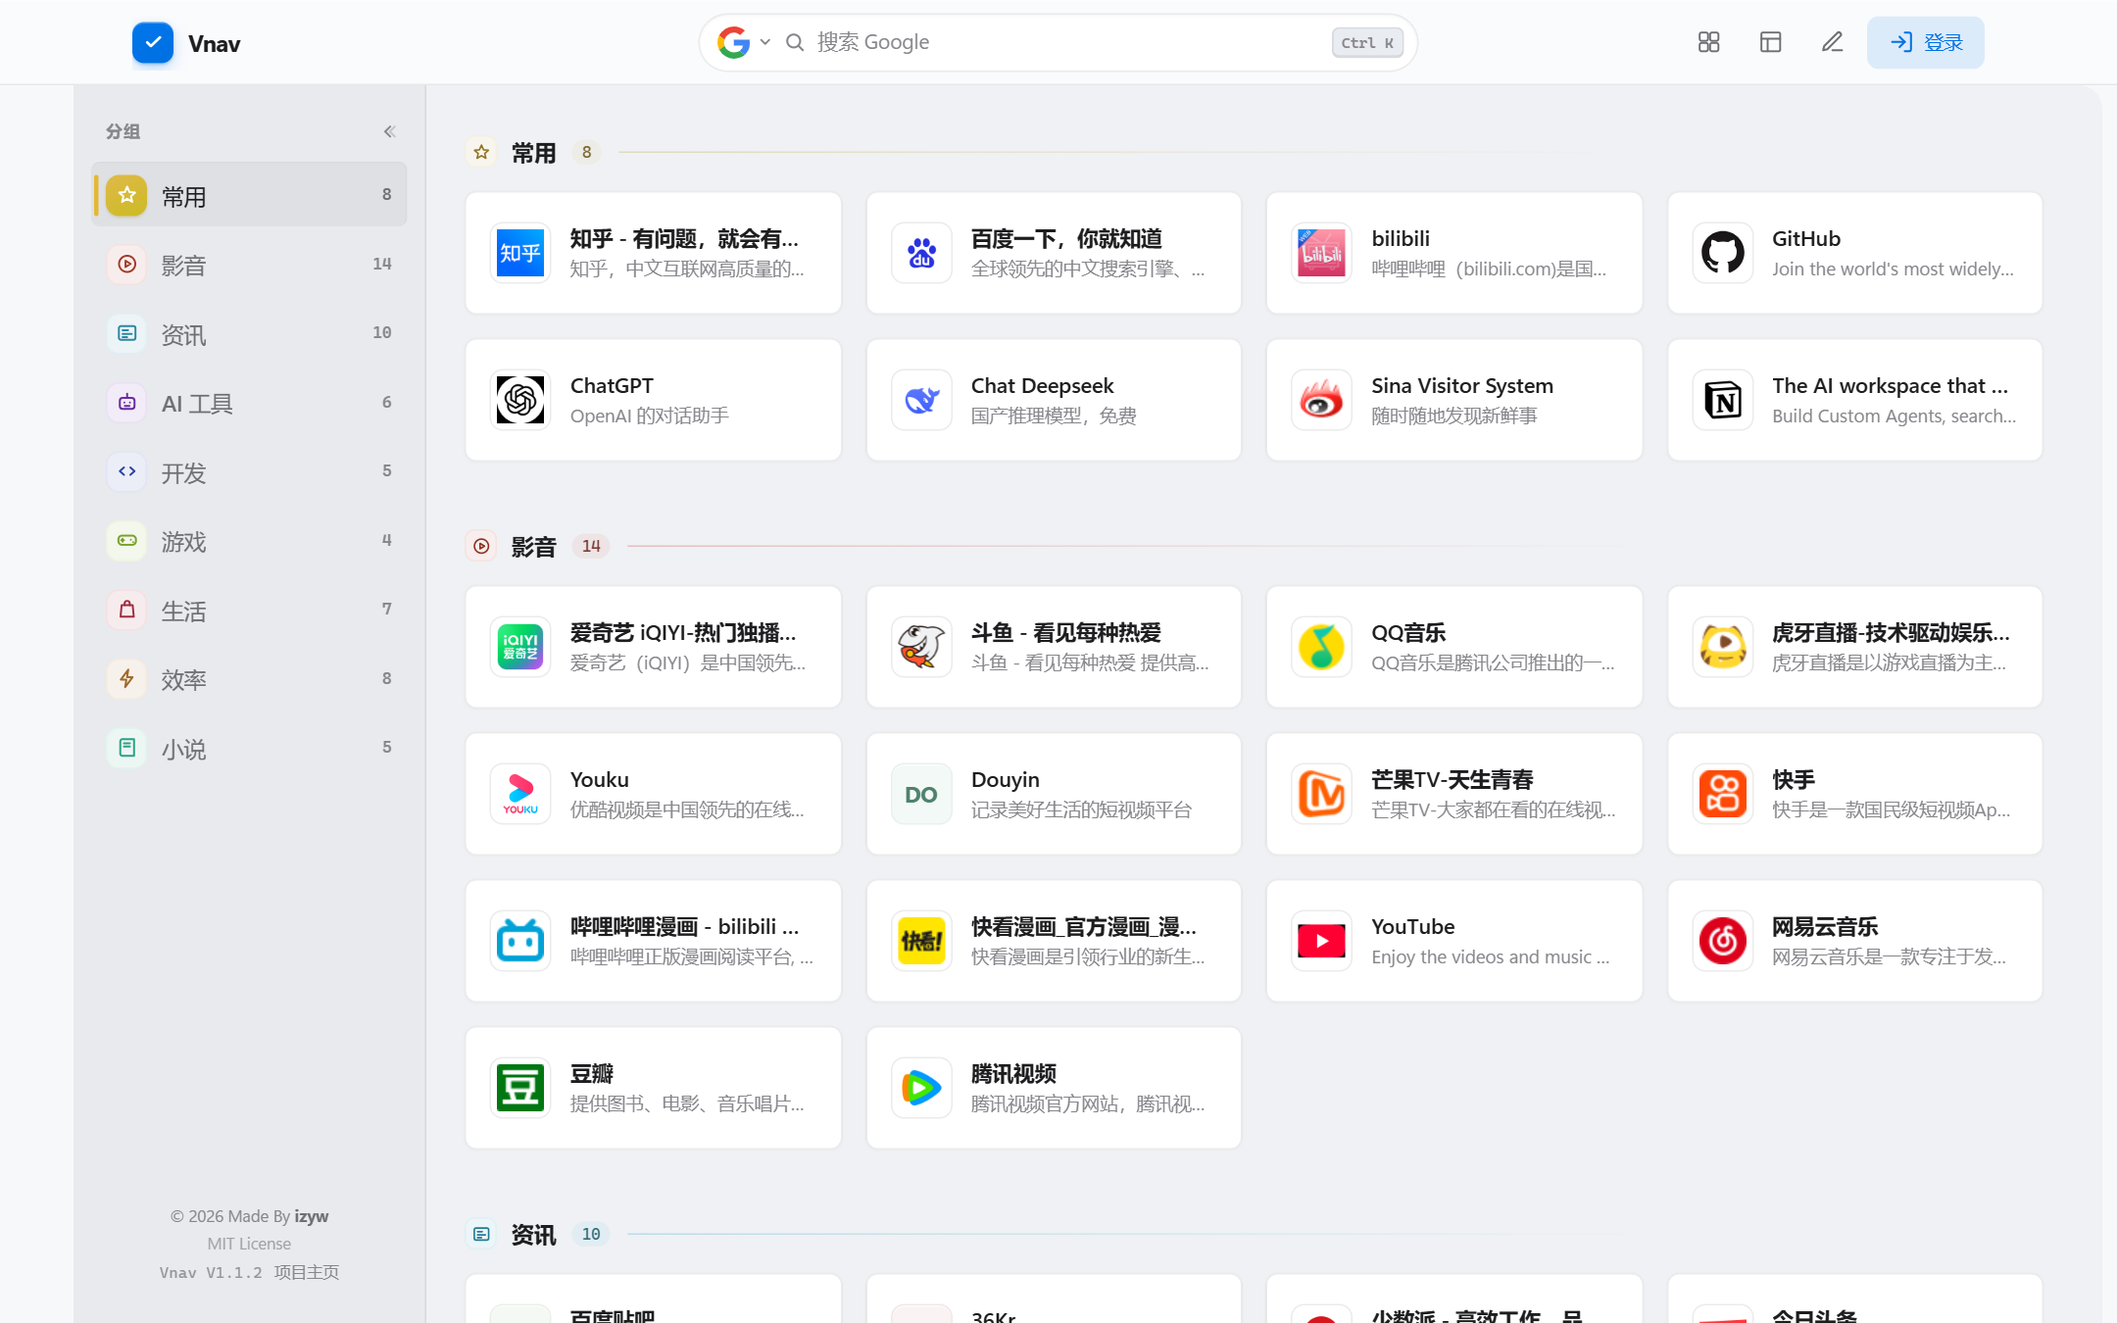
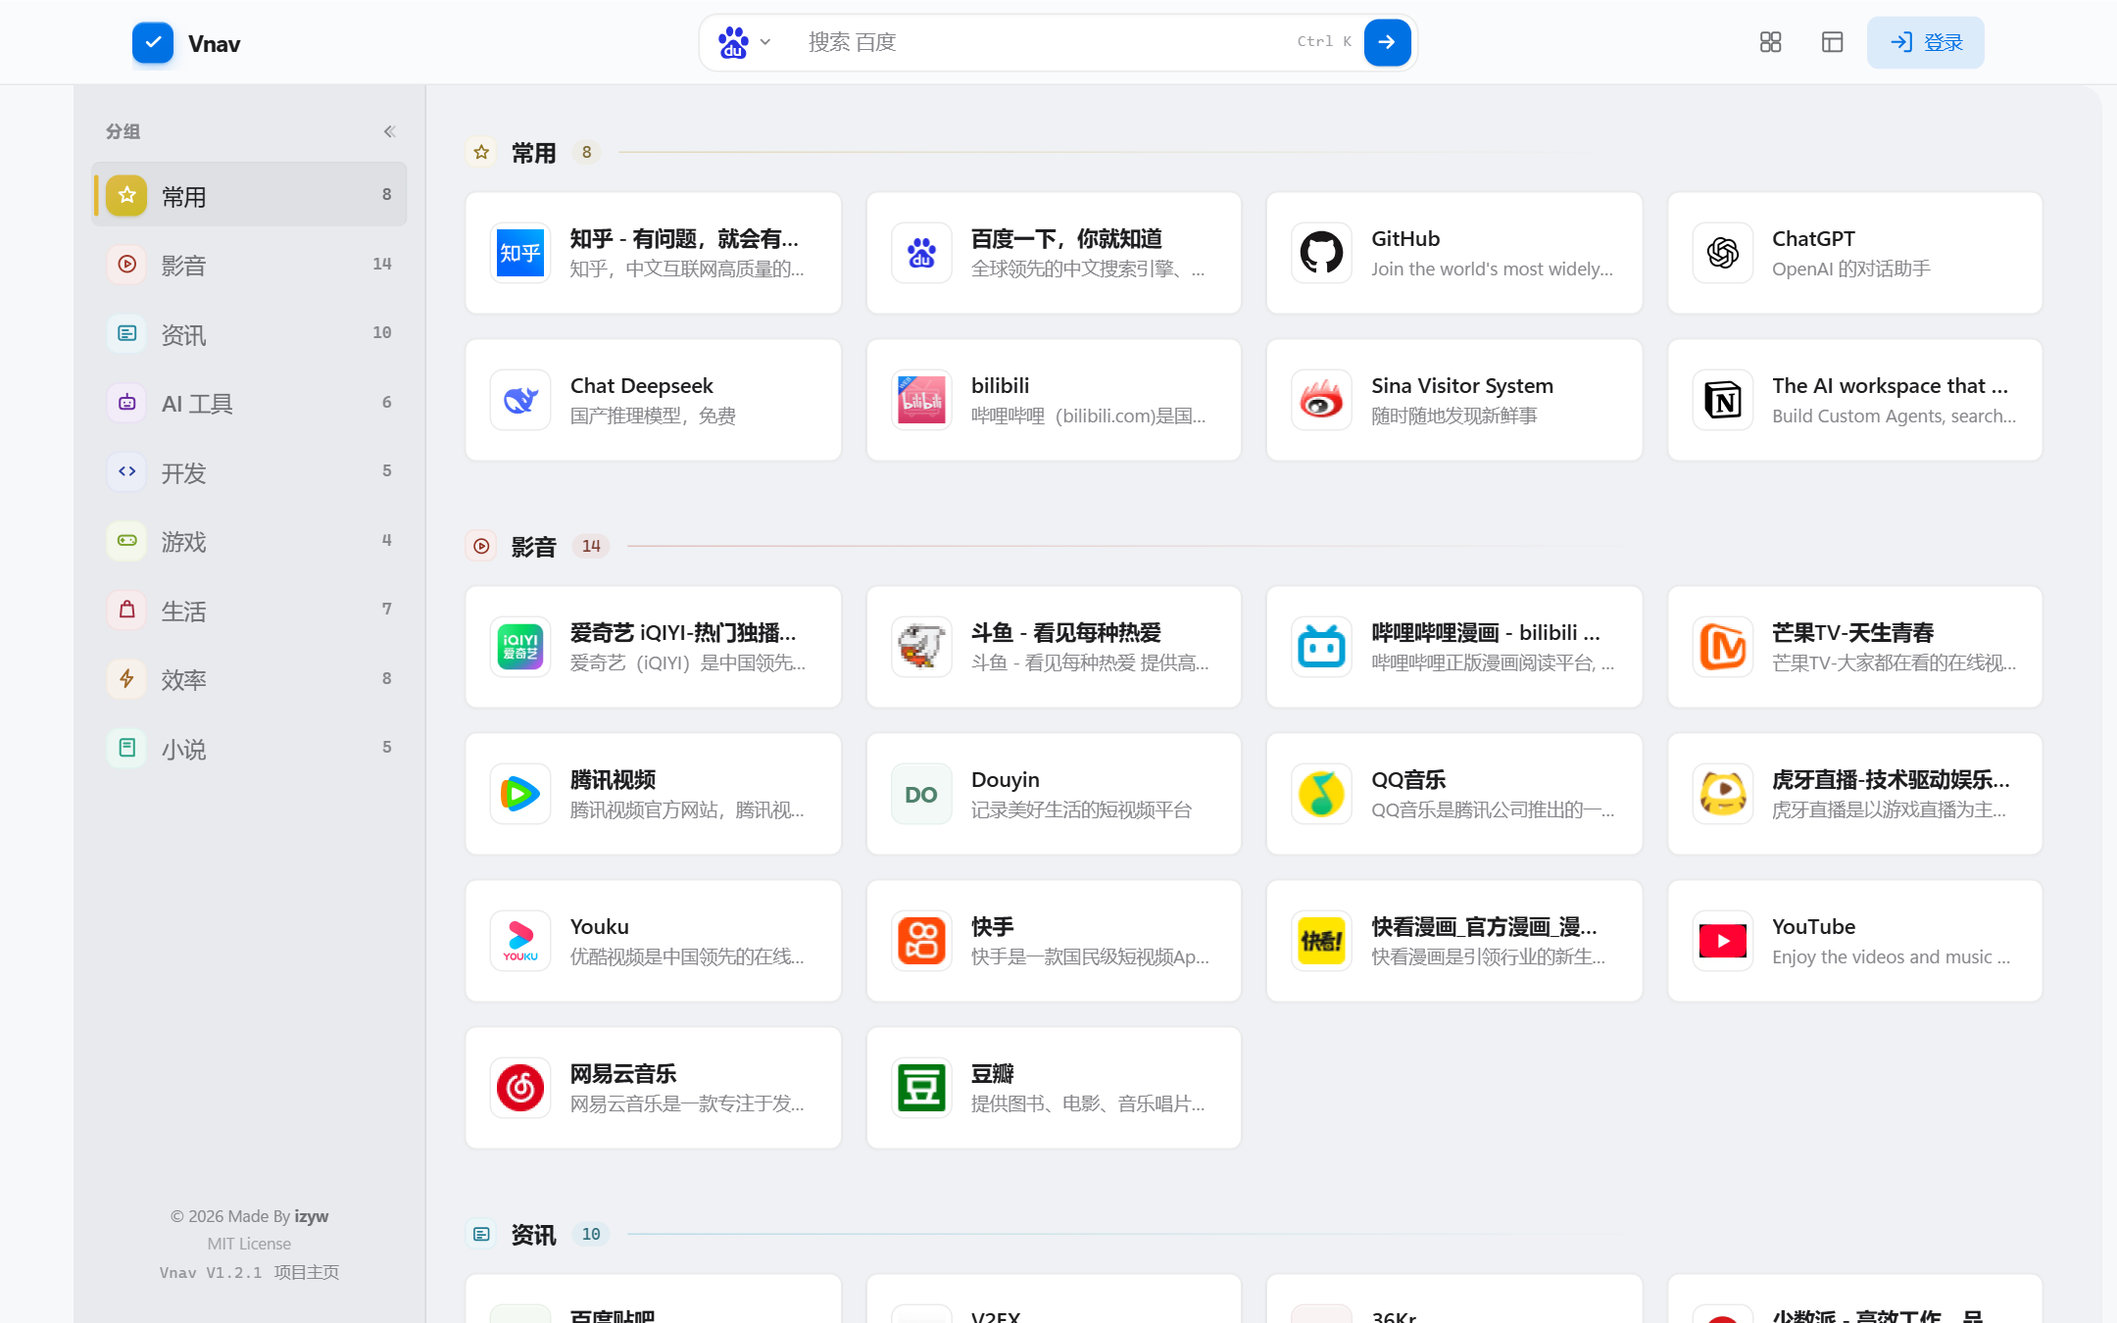
搜索框改成方形圆角，按钮做成框内实心圆角；Ctrl K 收成灰字，重拍四张界面图

diff --git a/assets/home.css b/assets/home.css
@@ -330,14 +330,14 @@ body.hp .brand-mark svg { width: 16px; height: 16px; }
 /* ==========================================================================
    5. 搜索框
    --------------------------------------------------------------------------
-   胶囊形（圆角 999）。整站其他元素都是 10~15px 的方圆角，
-   只有搜索框是纯胶囊 —— 这是有意的：它是全页唯一「随时要打字」的地方，
-   形状上就该和卡片区分开，让人一眼找到入口。
+   方圆形（圆角 13px），不再是纯胶囊：胶囊是全站唯一的异形，和卡片、按钮
+   的方圆角对不上，看起来像从别处借来的一块。整套 UI 都用 10~14px 的方圆角，
+   搜索框跟上来反而更整齐；右侧再放一枚同圆角比例的实心按钮收边。
    ========================================================================== */
 body.hp .search-wrap {
   width: clamp(260px, 34vw, 460px);
   min-height: 44px;
-  border-radius: 999px;
+  border-radius: 13px;
   border: 1px solid var(--hp-card-line);
   background: var(--hp-card-bg);
   backdrop-filter: var(--hp-card-blur);
@@ -352,7 +352,7 @@ body.hp .search-wrap:focus-within {
 body.hp .eng-btn {
   min-height: 44px;
   padding: 0 6px 0 13px;
-  border-radius: 999px 0 0 999px;
+  border-radius: 13px 0 0 13px;
 }
 body.hp .eng-btn::after {
   height: 16px;
@@ -361,95 +361,106 @@ body.hp .eng-btn::after {
 }
 body.hp .search input {
   min-height: 42px;
-  /* 左边 16px：放大镜去掉了，原来的 32px 是给它让位的，留着会空一块 */
-  padding: 0 16px 0 16px;
-  border-radius: 0 999px 999px 0;
+  padding: 0 16px;
+  border-radius: 0 13px 13px 0;
   font-size: 15.5px;
 }
 
-/* 提交按钮 = Ctrl K 提示，两者合成一个元素。
-   常态是一枚键帽（它同时也是按钮，点一下就能搜）；悬停、或输入框聚焦时
-   换成主题色箭头。宽高不变，所以切换状态时搜索框不会抖。
-   图标用箭头而不是放大镜：左边那颗放大镜是装饰，两个并排分不清谁可点。 */
-/* 右侧只留「清除 X + 提交按钮」的宽度：以前留 100px，X 和按钮之间
-   空出一大块，看着像忘了放东西。56px 让 X 正好贴到按钮左边。 */
-body.hp .search-wrap form.search input { padding-right: 56px; }
+/* 右侧给「Ctrl K 灰字 + 实心按钮」腾位置；一旦聚焦或已经有字，
+   灰字淡出，文字区立刻收回 32px —— 空框时提示看得见，打字时不碍事。
+   ⚠ 收起态的写法必须比常态「更具体」：常态是 .search-wrap + form + .search
+   三个类两级元素（0,3,3），如果只写 body.hp .search:focus-within input（0,3,2），
+   元素层级少一层，依然输给常态规则 —— 聚焦了半天内距不动，就是这个原因。 */
+body.hp .search-wrap form.search input { padding-right: 84px; }
+body.hp .search-wrap form.search:focus-within input,
+body.hp .search-wrap form.search:has(input:not(:placeholder-shown)) input { padding-right: 52px; }
 
-body.hp .search-go {
+/* 快捷键提示：一行灰字，不做键帽。以前它是个带描边的小方块，挤在按钮里
+   又小又糊；单独一行字反而更清楚，也不用为了它把按钮撑宽。 */
+body.hp .search-key {
   position: absolute;
-  right: 5px;
+  right: 44px;
   top: 50%;
   transform: translateY(-50%);
-  width: 52px;
-  height: 34px;
+  font-family: ui-monospace, SFMono-Regular, Menlo, Consolas, monospace;
+  font-size: 10.5px;
+  font-weight: 500;
+  letter-spacing: .04em;
+  color: var(--text-3);
+  opacity: .8;
+  pointer-events: none;
+  transition: opacity .16s;
+}
+body.hp .search:focus-within .search-key,
+body.hp .search:has(input:not(:placeholder-shown)) .search-key { opacity: 0; }
+
+/* 提交按钮：一枚实心方圆角，箭头居中。尺寸和圆角跟外面的搜索框同一套
+   （13px 外框 + 10px 按钮），看起来是框里嵌了一颗按钮，而不是框上贴了张标签。 */
+body.hp .search-go {
+  position: absolute;
+  /* 4px 四边等距：框高 40（38 + 上下边框）、按钮 32，上下各 4，右侧也留 4。
+     四边一样宽，看起来才是同一颗按钮嵌在框里，而不是贴着某一边。 */
+  right: 4px;
+  top: 50%;
+  transform: translateY(-50%);
+  width: 32px;
+  height: 32px;
   display: inline-flex;
   align-items: center;
   justify-content: center;
   padding: 0;
-  border: 1px solid var(--line-hi);
-  border-radius: 999px;
-  background: var(--surface-hi);
-  color: var(--text-3);
-  font-family: ui-monospace, SFMono-Regular, Menlo, Consolas, monospace;
-  font-size: 10.5px;
-  font-weight: 500;
-  letter-spacing: .02em;
-  cursor: pointer;
-  transition: background .16s, color .16s, border-color .16s;
-}
-body.hp .search-go .go-kbd { display: block; }
-body.hp .search-go .go-ico { display: none; }
-
-body.hp .search-go:hover,
-body.hp .search-wrap:focus-within .search-go {
+  border: 0;
+  border-radius: 10px;
   background: var(--acc);
-  border-color: var(--acc);
-  color: #fff;
+  color: var(--acc-ink);
+  cursor: pointer;
+  box-shadow: 0 1px 2px rgb(0 0 0 / .14);
+  transition: background .16s, transform .12s, box-shadow .16s;
 }
-body.hp .search-go:hover .go-kbd,
-body.hp .search-wrap:focus-within .search-go .go-kbd { display: none; }
-body.hp .search-go:hover .go-ico,
-body.hp .search-wrap:focus-within .search-go .go-ico { display: block; }
+body.hp .search-go .go-ico { display: block; }
+body.hp .search-go:hover {
+  background: color-mix(in srgb, var(--acc) 86%, #000);
+  box-shadow: 0 2px 6px rgb(0 0 0 / .18);
+}
+body.hp .search-go:active { transform: translateY(-50%) scale(.94); }
+body.hp .search-go:focus-visible { outline: 2px solid var(--acc); outline-offset: 3px; }
 
-body.hp .search-go:active { transform: translateY(-50%) scale(.95); }
-body.hp .search-go:focus-visible { outline: 2px solid var(--acc); outline-offset: 2px; }
-
-/* 工作台皮肤：方角、矮一档，日常是描边键帽，悬停变实心黑 */
-html[data-theme^='frame'] body.hp .search-wrap form.search input { padding-right: 50px; }
-html[data-theme^='frame'] body.hp .search-go {
-  width: 44px;
-  height: 26px;
-  border-radius: 7px;
-  border-color: var(--fr-line);
-  background: var(--fr-side);
-  color: var(--fr-ink-3);
+/* 工作台皮肤：方角更硬一档，按钮用近黑实心而不是主题色 */
+html[data-theme^='frame'] body.hp .search-wrap { border-radius: 9px; }
+html[data-theme^='frame'] body.hp .eng-btn { border-radius: 9px 0 0 9px; }
+html[data-theme^='frame'] body.hp .search input { border-radius: 0 9px 9px 0; }
+html[data-theme^='frame'] body.hp .search-wrap form.search input { padding-right: 72px; }
+html[data-theme^='frame'] body.hp .search-wrap form.search:focus-within input,
+html[data-theme^='frame'] body.hp .search-wrap form.search:has(input:not(:placeholder-shown)) input { padding-right: 44px; }
+html[data-theme^='frame'] body.hp .search-key {
+  right: 41px;
   font-size: 10px;
+  color: var(--fr-ink-3);
 }
-html[data-theme^='frame'] body.hp .search-go:hover,
-html[data-theme^='frame'] body.hp .search-wrap:focus-within .search-go {
+html[data-theme^='frame'] body.hp .search-go {
+  right: 4px;
+  width: 28px;
+  height: 28px;
+  border-radius: 6px;
   background: var(--fr-ink);
-  border-color: var(--fr-ink);
   color: var(--fr-app);
+  box-shadow: none;
+}
+html[data-theme^='frame'] body.hp .search-go:hover {
+  background: color-mix(in srgb, var(--fr-ink) 82%, var(--fr-app));
+  box-shadow: none;
 }
 
-/* 触屏 / 窄屏：没有物理键盘，Ctrl K 这两个字只占地方 —— 直接给主题色箭头 */
+/* 触屏 / 窄屏：没有物理键盘，Ctrl K 只占地方 —— 收起灰字，按钮占满右侧 */
 @media (max-width: 720px), (hover: none) {
-  body.hp .search-wrap form.search input { padding-right: 46px; }
-  body.hp .search-go {
-    width: 36px;
-    background: var(--acc);
-    border-color: var(--acc);
-    color: #fff;
-  }
-  body.hp .search-go .go-kbd { display: none; }
-  body.hp .search-go .go-ico { display: block; }
-  html[data-theme^='frame'] body.hp .search-go {
-    width: 30px;
-    height: 24px;
-    background: var(--fr-ink);
-    border-color: var(--fr-ink);
-    color: var(--fr-app);
-  }
+  body.hp .search-wrap form.search input,
+  body.hp .search-wrap form.search:focus-within input,
+  body.hp .search-wrap form.search:has(input:not(:placeholder-shown)) input { padding-right: 46px; }
+  body.hp .search-key { display: none; }
+  body.hp .search-go { width: 32px; height: 32px; border-radius: 9px; }
+  html[data-theme^='frame'] body.hp .search-wrap form.search input,
+  html[data-theme^='frame'] body.hp .search-wrap form.search:focus-within input { padding-right: 40px; }
+  html[data-theme^='frame'] body.hp .search-go { width: 28px; height: 28px; border-radius: 6px; }
 }
 
 /* 搜索建议下拉。贴在整条搜索框的下沿（左对齐引擎按钮、右对齐提交按钮），

diff --git a/assets/skin-frame.css b/assets/skin-frame.css
@@ -576,7 +576,7 @@ html[data-theme^='frame'][data-layout='grid'] body.hp .link-icon {
 html[data-theme^='frame'] body.hp .search-wrap {
   width: clamp(300px, 32vw, 460px);
   min-height: 36px;
-  border-radius: 10px;
+  border-radius: 9px;
   border: 1px solid var(--fr-line);
   background: var(--fr-app);
   box-shadow: none;
@@ -592,8 +592,8 @@ html[data-theme^='frame'] body.hp .search input {
   /* 左侧只留 12px：放大镜在工作台里是隐藏的（见下一条），
      左边已经有引擎 logo 表达「这里能搜」，再放一个放大镜是重复的。
      上一版把放大镜留着、内距又只给 8px，于是它直接压在提示文字上。 */
-  padding: 0 100px 0 12px;
-  border-radius: 0 10px 10px 0;
+  padding: 0 72px 0 12px;
+  border-radius: 0 9px 9px 0;
   font-family: var(--fr-font);
   font-size: 14px;
   color: var(--fr-ink);
@@ -606,19 +606,11 @@ html[data-theme^='frame'] body.hp .search-icon { display: none; }
 html[data-theme^='frame'] body.hp .eng-btn {
   min-height: 34px;
   padding: 0 5px 0 11px;
-  border-radius: 10px 0 0 10px;
+  border-radius: 9px 0 0 9px;
   color: var(--fr-ink-2);
 }
 html[data-theme^='frame'] body.hp .eng-btn:hover { color: var(--fr-ink); }
 html[data-theme^='frame'] body.hp .eng-logo { width: 20px; height: 20px; }
-html[data-theme^='frame'] body.hp .search-kbd {
-  border-radius: 4px;
-  border: 1px solid var(--fr-line);
-  background: var(--fr-side);
-  color: var(--fr-ink-3);
-  font-size: 11px;
-  padding: 2px 6px;
-}
 
 /* ==========================================================================
    8. 工具按钮与下拉

diff --git a/assets/skin-atlas.css b/assets/skin-atlas.css
@@ -421,7 +421,7 @@ body.hp .search-wrap {
   width: clamp(320px, 34vw, 520px);
   min-height: 38px;
   padding: 0;
-  border-radius: var(--at-r-pill);
+  border-radius: 13px;
   border: 1px solid var(--at-rule);
   background: color-mix(in srgb, var(--at-card) 94%, transparent);
   box-shadow: inset 0 1px 2px rgba(0, 0, 0, .035);
@@ -443,7 +443,7 @@ body.hp .search-wrap:focus-within {
 body.hp .eng-btn {
   min-height: 38px;
   padding: 0 6px 0 12px;
-  border-radius: var(--at-r-pill) 0 0 var(--at-r-pill);
+  border-radius: 13px 0 0 13px;
   gap: 5px;
   color: var(--at-ink-2);
 }
@@ -457,8 +457,8 @@ body.hp .eng-menu.is-open .eng-btn {
 body.hp .search input {
   min-height: 36px;
   /* 右侧留出键帽的位置 */
-  padding: 0 62px 0 24px;
-  border-radius: 0 var(--at-r-pill) var(--at-r-pill) 0;
+  padding: 0 84px 0 18px;
+  border-radius: 0 13px 13px 0;
   font-family: var(--at-font);
   font-size: 14px;
   font-weight: 400;

diff --git a/index.php b/index.php
@@ -228,7 +228,7 @@ hp_log_visit(false, '/');
           （设计令牌 + 按钮 + 表单），不能在上面重写主页样式，否则会连带
           改坏后台。所以主页的推倒重来单独落在 home.css，全部规则挂在
           body.hp 之下 —— 作用域只在主页，后台零影响。 */ ?>
-<link rel="stylesheet" href="assets/home.css?v=54">
+<link rel="stylesheet" href="assets/home.css?v=56">
 <?php /* 皮肤 CSS 必须排在 home.css 之后：靠「特异性 +1 属性选择器」与
          「后加载」双重压过 home.css 的结构规则，顺序反了只能改色改不动结构。
 
@@ -237,14 +237,14 @@ hp_log_visit(false, '/');
          两套全下等于每次白费一套（gzip 后 13~30KB）。
          切到另一系时，ui.js 会动态补载对应 CSS（见下方 data-skin-css）。 */ ?>
 <?php $__skinCss = str_starts_with($theme, 'frame') ? 'frame' : 'atlas'; ?>
-<link rel="stylesheet" href="assets/skin-<?= $__skinCss ?>.css?v=<?= $__skinCss === 'frame' ? '58' : '62' ?>" data-skin-css="<?= $__skinCss ?>">
+<link rel="stylesheet" href="assets/skin-<?= $__skinCss ?>.css?v=<?= $__skinCss === 'frame' ? '59' : '63' ?>" data-skin-css="<?= $__skinCss ?>">
 <script>
 /* 记录当前已加载的皮肤系，供切换时判断是否要补载另一套。
    放在 body 之前，ui.js 执行时已可用。 */
 window.__VNAV_SKIN_CSS = <?= json_encode($__skinCss) ?>;
 window.__VNAV_SKIN_HREF = {
-  atlas: 'assets/skin-atlas.css?v=62',
-  frame: 'assets/skin-frame.css?v=58'
+  atlas: 'assets/skin-atlas.css?v=63',
+  frame: 'assets/skin-frame.css?v=59'
 };
 </script>
 <?php /* 登录态要判断 localStorage 里那份「67 条链接、9 个分组」究竟是不是
@@ -425,13 +425,14 @@ if ($__isAdmin) {
                  GET 提交会把 action 里的查询串整个丢掉，写死 q 等于让百度
                  去解析一个它不认识的参数 —— 结果就是用户看到的空白页。 */ ?>
         <input id="q" name="<?= h($engines[$engine]['param']) ?>" type="search" placeholder="搜索 <?= h($engines[$engine]['label']) ?>" autocomplete="off" enterkeyhint="search">
-        <?php /* 提交按钮与 Ctrl K 提示合成一个：常态显示键帽（也是个能点的按钮），
-                 悬停或输入时换成箭头。以前两者各占一块，右侧挤着两个东西。
-                 图标用箭头而不是放大镜 —— 左边已经有一个放大镜当装饰。 */ ?>
+        <?php /* 键帽从按钮里搬出来，独立成一行灰字：按钮是一枚实心方圆角，
+                 再往里塞 Ctrl K 就成了"字挤在色块里"，又小又糊。
+                 现在字只做提示，输入框一聚焦或一有内容就淡出，不挡视线。
+                 图标用箭头而不是放大镜 —— 放大镜在这条框里已经删掉了。 */ ?>
+        <span class="search-key" aria-hidden="true">Ctrl K</span>
         <button class="search-go" type="submit" title="搜索（Ctrl K）">
           <span class="sr-only">搜索</span>
-          <span class="go-kbd" aria-hidden="true">Ctrl K</span>
-          <svg class="go-ico" viewBox="0 0 24 24" width="16" height="16" fill="none" stroke="currentColor" stroke-width="2.6" stroke-linecap="round" stroke-linejoin="round" aria-hidden="true"><path d="M5 12h12"/><path d="M12.5 6.5L18 12l-5.5 5.5"/></svg>
+          <svg class="go-ico" viewBox="0 0 24 24" width="17" height="17" fill="none" stroke="currentColor" stroke-width="2.4" stroke-linecap="round" stroke-linejoin="round" aria-hidden="true"><path d="M5 12h12"/><path d="M12.5 6.5L18 12l-5.5 5.5"/></svg>
         </button>
       </form>
       <?php /* 搜索建议下拉。只是个空壳，内容由 ui.js 按需填 ——

diff --git a/inc/changelog.php b/inc/changelog.php
@@ -35,8 +35,8 @@ function hp_changelog(): array
                         '参数名跟着引擎走：百度用 <code>wd</code>、搜狗用 <code>query</code>、其余用 <code>q</code>。之前全部按 <code>q</code> 发出去，百度不认，落在一个空白页上。',
                         '跳转改成页面自己打开新标签。原先那张跨站表单会被内容安全策略直接丢弃——新标签开了、地址也对，就是不出结果，非得手动刷新一次。',
                         '输入关键词会出现候选词下拉，方向键选择、回车确认、<kbd>Esc</kbd> 收起。取词由服务端代取并缓存，不向搜索引擎多要一次请求。',
-                        '快捷键提示 <kbd>Ctrl</kbd> + <kbd>K</kbd> 与搜索按钮合成一个：平时显示键帽，悬停或点进输入框时变成箭头。窄屏只留箭头。',
-                        '输入框右侧的空白收紧，去掉多余空间；原来左侧那颗装饰用的放大镜也一并去掉。',
+                        '搜索框从胶囊改成方形圆角，右侧嵌一枚实心圆角按钮收边；快捷键提示收成框内一行浅灰字，一聚焦或一有内容就淡出。',
+                        '输入框右侧的空白收紧，左侧原来那颗装饰用的放大镜也去掉了。',
                     ],
                 ],
                 [
